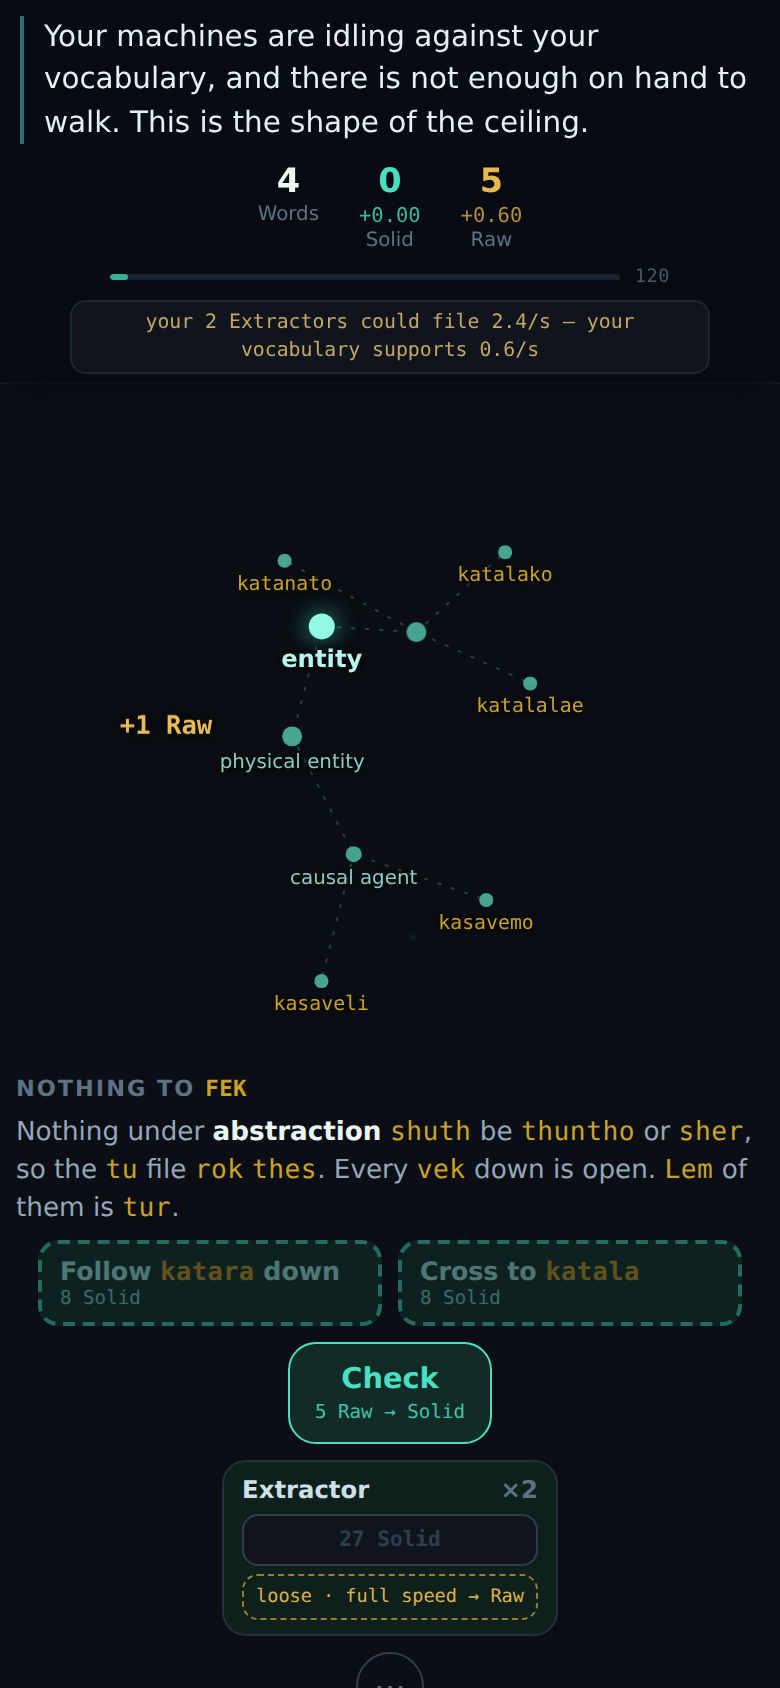
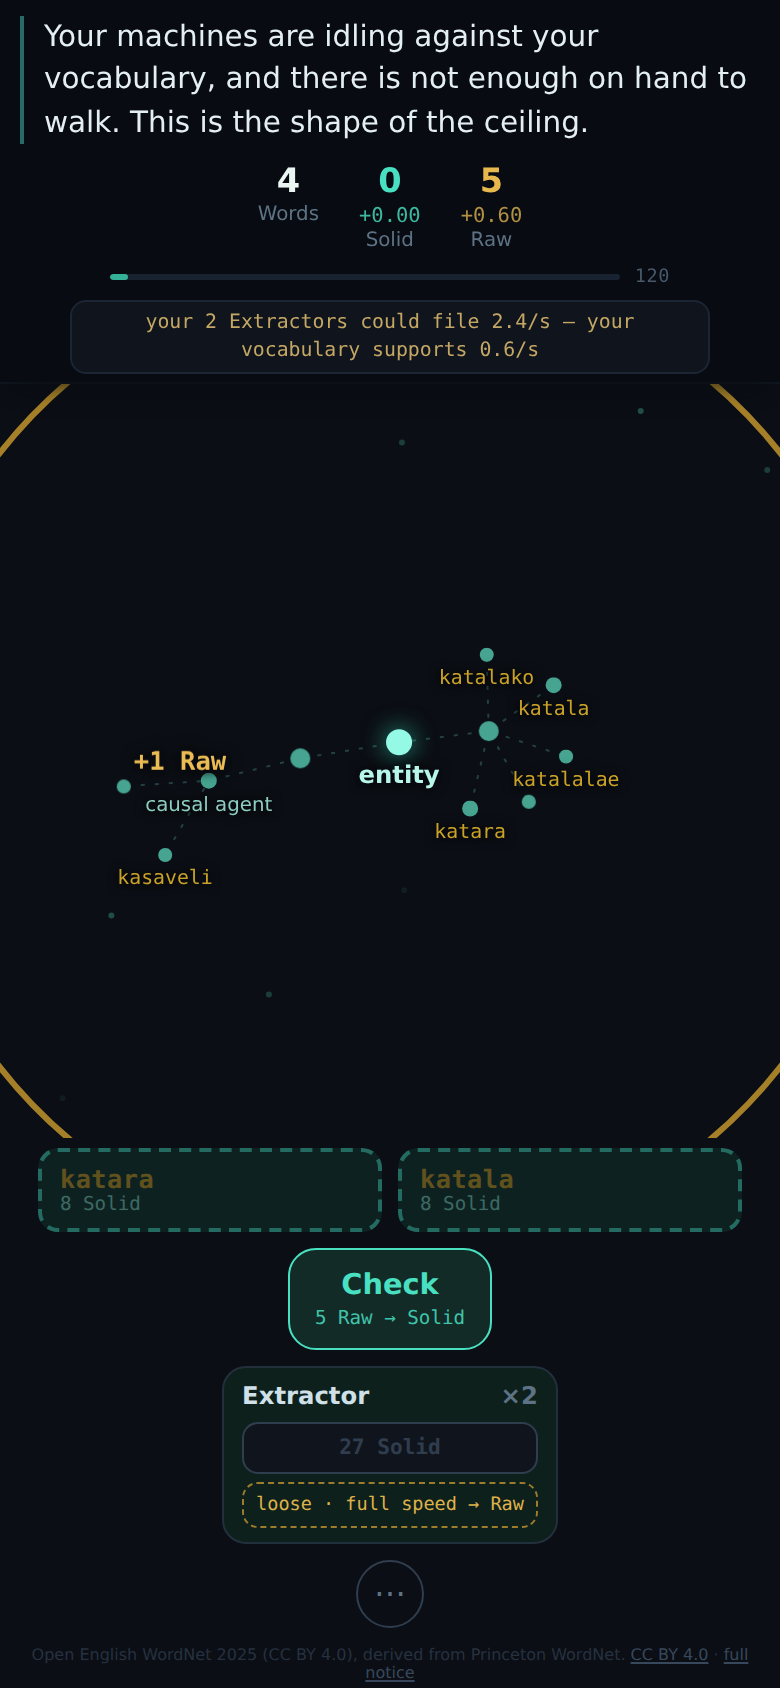
Put the frontier on the board — the buttons now name dots you can see
The salvage review measured ZERO OVERLAP between the lane buttons and the
dots on screen: the only two things a player could do named places that
were not drawn anywhere. This is the test diff that review asked for
before any deletion, and it found the mechanism.

It is not text placement. `weights` was `weigh($game.held, …)` — the board
drew your INVENTORY, while the buttons name your FRONTIER, and those two
sets are disjoint by construction. No amount of moving prose around could
ever have made them meet.

Three changes, in the order they were tested:

  1. Hide the beat title+body. Alone: no effect on the disconnect.
  2. Make each button show the graph word of the dot it leads to, rather
     than a frame sentence. Alone: no effect — the words still named
     nothing on screen.
  3. Add the offered destinations to `weights` and one edge per offered
     lane to `edges`. THIS was it.

Also gives lane destinations first claim on a label slot in the greedy
declutter pass (`DetailOpts.priority`), which was a suspect until (3)
proved the ids were never in `shown` at all.

Evidence — `npm run play`, screenshot in play.png:

  before  board: entity · physical entity · causal agent · katanato ·
                 katalako · katalalae · kasavemo · kasaveli
          buttons: katara · katala
          overlap: 0 of 2

  after   board: entity · katara · katala · katalako · katalalae ·
                 causal agent · kasaveli
          buttons: katara · katala
[…]

diff --git a/src/ui/App.svelte b/src/ui/App.svelte
@@ -244,14 +244,22 @@
 
   const weights = $derived.by(() => {
     void $ontologyRevision;
-    return weigh($game.held, (id) => conceptAt(id)?.parent ?? -1);
+    // THROWAWAY TEST 2026-07-29. The board drew `$game.held` and NOTHING else,
+    // so the places the only two buttons name were by construction never on
+    // screen. That is the zero-overlap the salvage review measured, and it is
+    // not a text problem. The frontier goes on the board.
+    return weigh([...$game.held, ...offered($game).map((l) => l.to)],
+      (id) => conceptAt(id)?.parent ?? -1);
   });
 
   /** Lines between the concepts you hold, straight from the dataset. A picture
    *  of the graph, not an inventory of it, and not a button. */
   const edges = $derived.by(() => {
     void $ontologyRevision;
-    return potentialEdges($game.held);
+    // THROWAWAY TEST: plus one line per lane you are offered, so the route you
+    // can pay for is a line you can see.
+    return [...potentialEdges($game.held),
+      ...offered($game).map((l) => ({ a: l.from, b: l.to, rel: 0 }))];
   });
 
   /** The springs: every concept pulled toward the ancestor it hangs off, plus
@@ -319,6 +327,8 @@
     void $ontologyRevision; void simTick;
     return detail(weights, {
       zoom: follow ? followZoom : zoom, screen: screenPos, w, h, labelWidth: labelPx,
+      // THROWAWAY TEST: the dots the buttons point at get their labels first.
+      priority: offered($game).map((l) => l.to),
     });
   });
   const rolledUp = $derived(lod.rolled);
@@ -765,6 +775,7 @@
   interface LaneRow {
     key: string;
     to: number;
+    toLabel: string;
     state: LaneState;
     missing: number[];
     label: string;
@@ -799,6 +810,7 @@
       return {
         key: lane.id,
         to: lane.to,
+        toLabel: lane.toLabel,
         state: lane.state,
         missing: lane.missing,
         label: label(text, table),
@@ -1135,10 +1147,12 @@
          above the board is what tells the player what is happening; this is
          what they are reading their way into. -->
     {#if beat}
-      <div class="beat">
-        <h3>{@html seg(beat.title)}</h3>
-        <p>{@html seg(beat.body)}</p>
-      </div>
+      <!-- THROWAWAY TEST 2026-07-29, revert with git checkout. The salvage
+           review measured ZERO OVERLAP between the button labels and the dots
+           on the board: the only two things you could do named places that were
+           not drawn. Hiding the prose and pointing the buttons at the dots
+           tests whether that disconnect was the whole problem, before deleting
+           1,300 lines on the diagnosis. -->
       <div class="lanes">
         {#each laneRows as c (c.key)}
           <button class="lane {c.state}" class:poor={c.state === 'dotted' && !c.takeable}
@@ -1146,7 +1160,7 @@
             aria-disabled={c.state !== 'dotted'}
             aria-label={c.plain}
             onclick={() => walk(c)}>
-            <b>{@html c.label}</b>
+            <b>{@html label(`⟦${c.toLabel}⟧`, new Map([[c.toLabel, c.to]]))}</b>
             <!-- ★ THE PRICE IS ON THE BUTTON FROM THE FIRST FRAME, in English,
                  so the opening move is not a blind spend. A locked lane shows
                  its KEY instead, in the graph's word — an absent edge teaches

diff --git a/src/render/detail.ts b/src/render/detail.ts
@@ -88,6 +88,11 @@ export interface DetailOpts {
   w: number; h: number;
   /** Rendered width of a concept's label, including its rolled-up count. */
   labelWidth: (id: number, folded: number) => number;
+  /** THROWAWAY TEST 2026-07-29. Ids that must get a label slot before anything
+   *  else competes for it — the places the lane buttons name. Decluttering
+   *  places labels heaviest-first, which is why the two destinations you can
+   *  actually travel to were the two UNLABELLED dots on screen. */
+  priority?: Iterable<number>;
 }
 
 /** How many concepts to draw at a given zoom. Deliberately a budget rather than
@@ -131,7 +136,9 @@ export function detail(weights: Map<number, Weighed>, o: DetailOpts): Lod {
   // ── greedy label decluttering ────────────────────────────────────────────
   const labelled = new Set<number>();
   const placed: Array<[number, number, number, number]> = []; // l, t, r, b
-  for (const id of shown) {
+  const first = new Set(o.priority ?? []);
+  const order2 = [...shown.filter((id) => first.has(id)), ...shown.filter((id) => !first.has(id))];
+  for (const id of order2) {
     const p = o.screen.get(id);
     if (!p) continue;
     const width = o.labelWidth(id, rolled.get(id) ?? 0);
